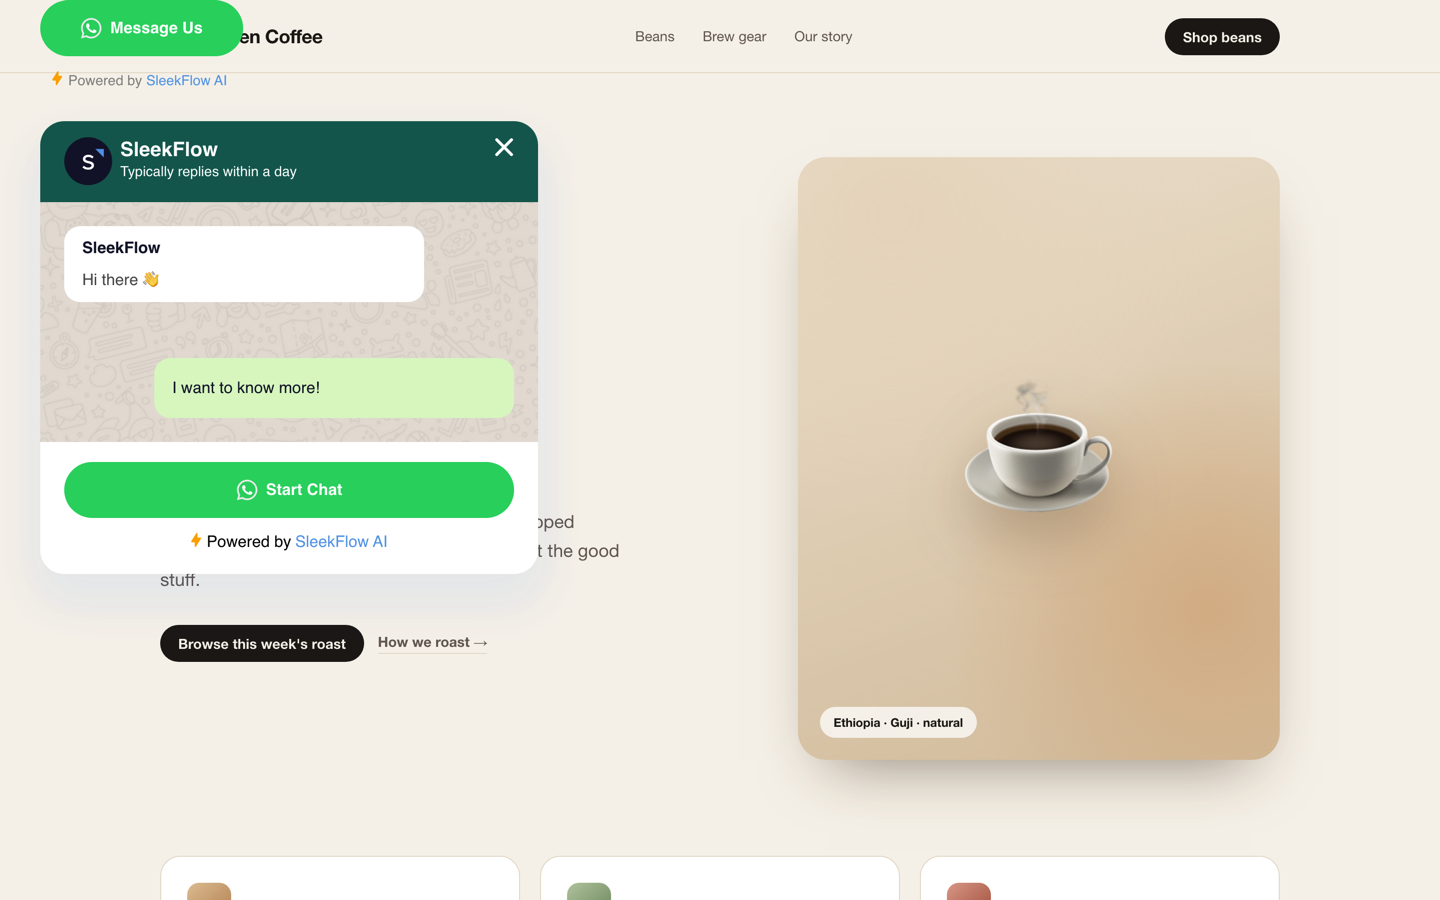
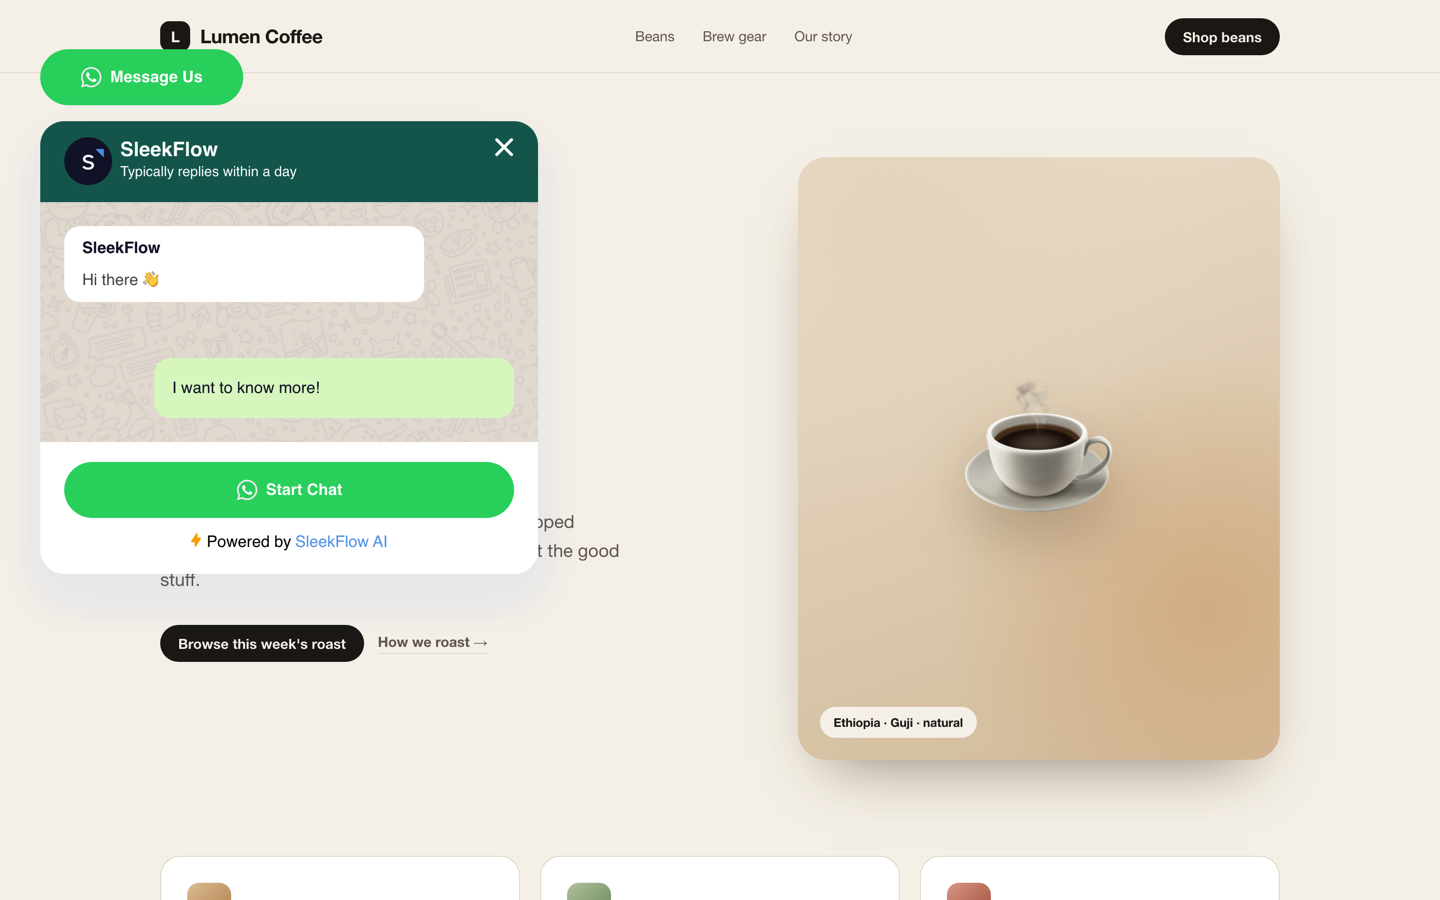
Top placements: hide launcher Powered-by line, mirror the 49px edge gap
The bottom layout gives the button 49px of clearance via the Powered-by
line. At the top that line sat between the button and the panel and the
button was flush with the frame. Hide the line at top, reserve the same
49px above the button, and let an explicit offsetY replace the gap.

Changed region(s): [[0.0312, 0.0, 0.1875, 0.1244]]

diff --git a/index.html b/index.html
@@ -253,7 +253,7 @@
         </tr>
         <tr>
           <td><code>offsetY</code></td>
-          <td>Distance from the top/bottom viewport edge. Useful to clear a sticky header on top placements.</td>
+          <td>Distance from the top/bottom viewport edge. On top placements it replaces the built-in 49px inset, so it is the exact distance from the frame to the launcher.</td>
           <td class="default"><code>0</code></td>
         </tr>
         <tr>
@@ -287,7 +287,7 @@
       <div class="card">
         <h3>Good to know</h3>
         <ul>
-          <li>The launcher sits flush with the vertical edge, like the official widget. Set <code>offsetY</code> to clear a sticky header.</li>
+          <li>Top placements hide the launcher’s “Powered by” line and keep a 49px inset instead, mirroring the bottom placement. Set <code>offsetY</code> to replace that inset and clear a sticky header.</li>
           <li>The panel shrinks on short viewports instead of running off-screen.</li>
           <li>Styles live in a shadow root, so your page CSS can't clash.</li>
         </ul>
@@ -329,11 +329,10 @@
   let widget = null;
 
   function options() {
-    return Object.assign({}, BASE_OPTIONS, {
-      position: state.position,
-      offsetX: state.offsetX,
-      offsetY: state.offsetY,
-    });
+    const opts = Object.assign({}, BASE_OPTIONS, { position: state.position });
+    if (state.offsetX !== DEFAULTS.offsetX) opts.offsetX = state.offsetX;
+    if (state.offsetY !== DEFAULTS.offsetY) opts.offsetY = state.offsetY;
+    return opts;
   }
 
   function sync() {
@@ -346,8 +345,13 @@
     if (state.offsetX === DEFAULTS.offsetX) widget.style.removeProperty('--sf-offset-x');
     else widget.style.setProperty('--sf-offset-x', state.offsetX + 'px');
 
-    if (state.offsetY === DEFAULTS.offsetY) widget.style.removeProperty('--sf-offset-y');
-    else widget.style.setProperty('--sf-offset-y', state.offsetY + 'px');
+    if (state.offsetY === DEFAULTS.offsetY) {
+      widget.style.removeProperty('--sf-offset-y');
+      widget.style.removeProperty('--sf-top-gap');
+    } else {
+      widget.style.setProperty('--sf-offset-y', state.offsetY + 'px');
+      widget.style.setProperty('--sf-top-gap', '0px');
+    }
 
     document.querySelectorAll('.corner').forEach((btn) => {
       btn.setAttribute('aria-pressed', String(btn.dataset.pos === state.position));

diff --git a/whatsapp-button.js b/whatsapp-button.js
@@ -15,6 +15,10 @@
  * Optional: offsetX (default 40px desktop / 24px mobile), offsetY (default 0),
  *           zIndex (default 99999).
  *
+ * Top placements mirror the bottom layout: the launcher's "Powered by" line is
+ * hidden and the same 49px is reserved above the button. Passing offsetY
+ * replaces that gap, so offsetY is the exact distance from the frame.
+ *
  * Everything else is unchanged from the official widget.
  */
 (function () {
@@ -198,7 +202,16 @@
   /* Top placements: the launcher sits above the panel, so swap their order
      and move the 16px gap from the panel's bottom edge to its top edge. */
   :host([position^="top"]) .sf-panel { order: 2; margin: 16px 0 0; }
-  :host([position^="top"]) .sf-actions { order: 1; }
+
+  /* The "Powered by" line under the launcher only makes sense when the widget
+     hangs from the bottom edge — at the top it would sit between the button
+     and the panel. Hide it, and reserve the same 49px it occupied above the
+     button so top placements sit off the frame exactly like bottom ones. */
+  :host([position^="top"]) .sf-powered { display: none; }
+  :host([position^="top"]) .sf-actions {
+    order: 1;
+    padding-top: var(--sf-top-gap, 49px);
+  }
 
   .sf-actions {
     order: 2;
@@ -745,7 +758,12 @@
     var offsetX = cssLength(options.offsetX);
     var offsetY = cssLength(options.offsetY);
     if (offsetX !== null) element.style.setProperty('--sf-offset-x', offsetX);
-    if (offsetY !== null) element.style.setProperty('--sf-offset-y', offsetY);
+    if (offsetY !== null) {
+      element.style.setProperty('--sf-offset-y', offsetY);
+      // An explicit offsetY is the exact distance from the edge, so drop the
+      // built-in top gap instead of adding to it.
+      element.style.setProperty('--sf-top-gap', '0px');
+    }
     if (options.zIndex !== undefined && options.zIndex !== null) {
       element.style.setProperty('--sf-z-index', String(options.zIndex));
     }

diff --git a/README.md b/README.md
@@ -56,6 +56,10 @@ Without a `position` the widget behaves exactly like the official one (bottom-ri
 Shorthands are accepted too: `br`, `bl`, `tr`, `tl`, `left`, `right`. Case and
 separators are ignored, so `'topLeft'`, `'top left'` and `'TOP_LEFT'` all work.
 
+Top placements also drop the launcher's "Powered by" line — it would otherwise sit
+between the button and the panel — and reserve the same 49px the line occupied above
+the button, so the two placements mirror each other.
+
 The official `buttonPosition: 'left' | 'right'` option still works and maps to the
 two bottom corners. If both are given, `position` wins.
 
@@ -69,7 +73,7 @@ two bottom corners. If both are given, `position` wins.
 | --- | --- | --- |
 | `position` | `'bottom-right'` · `'bottom-left'` · `'top-right'` · `'top-left'` | `'bottom-right'` |
 | `offsetX` | Horizontal inset from the viewport edge. Number = px, string = any CSS length (`'2rem'`). | `40` desktop, `24` ≤ 640px |
-| `offsetY` | Vertical inset from the viewport edge. | `0` |
+| `offsetY` | Vertical inset from the viewport edge. On top placements it replaces the built-in 49px gap. | `0` |
 | `zIndex` | Stacking order. | `99999` |
 
 ### Unchanged from the official script
@@ -101,15 +105,19 @@ Calling `whatsappButton()` again replaces the existing widget.
 
 ## Top placement and sticky headers
 
-Like the official widget, the launcher sits flush with the vertical edge — `offsetY: 0`
-at the top. Most sites have a sticky header there, so top placements will usually want
-a vertical inset:
+At the bottom the launcher sits 49px off the frame — that is the height of the
+"Powered by" line below it. Top placements hide that line and reserve the same 49px
+above the button, so both placements sit the same distance from their edge.
+
+Most sites have a sticky header at the top, so top placements will usually want a
+vertical inset. On a top placement `offsetY` **replaces** the 49px gap, so this puts
+the launcher exactly 88px from the top:
 
 ```js
 whatsappButton({ position: 'top-right', offsetY: 88 });
 ```
 
-| `offsetY: 0` (default) | `offsetY: 88` |
+| default (49px inset) | `offsetY: 88` |
 | :---: | :---: |
 | ![](screenshots/top-right.png) | ![](screenshots/top-right-offset.png) |
 
